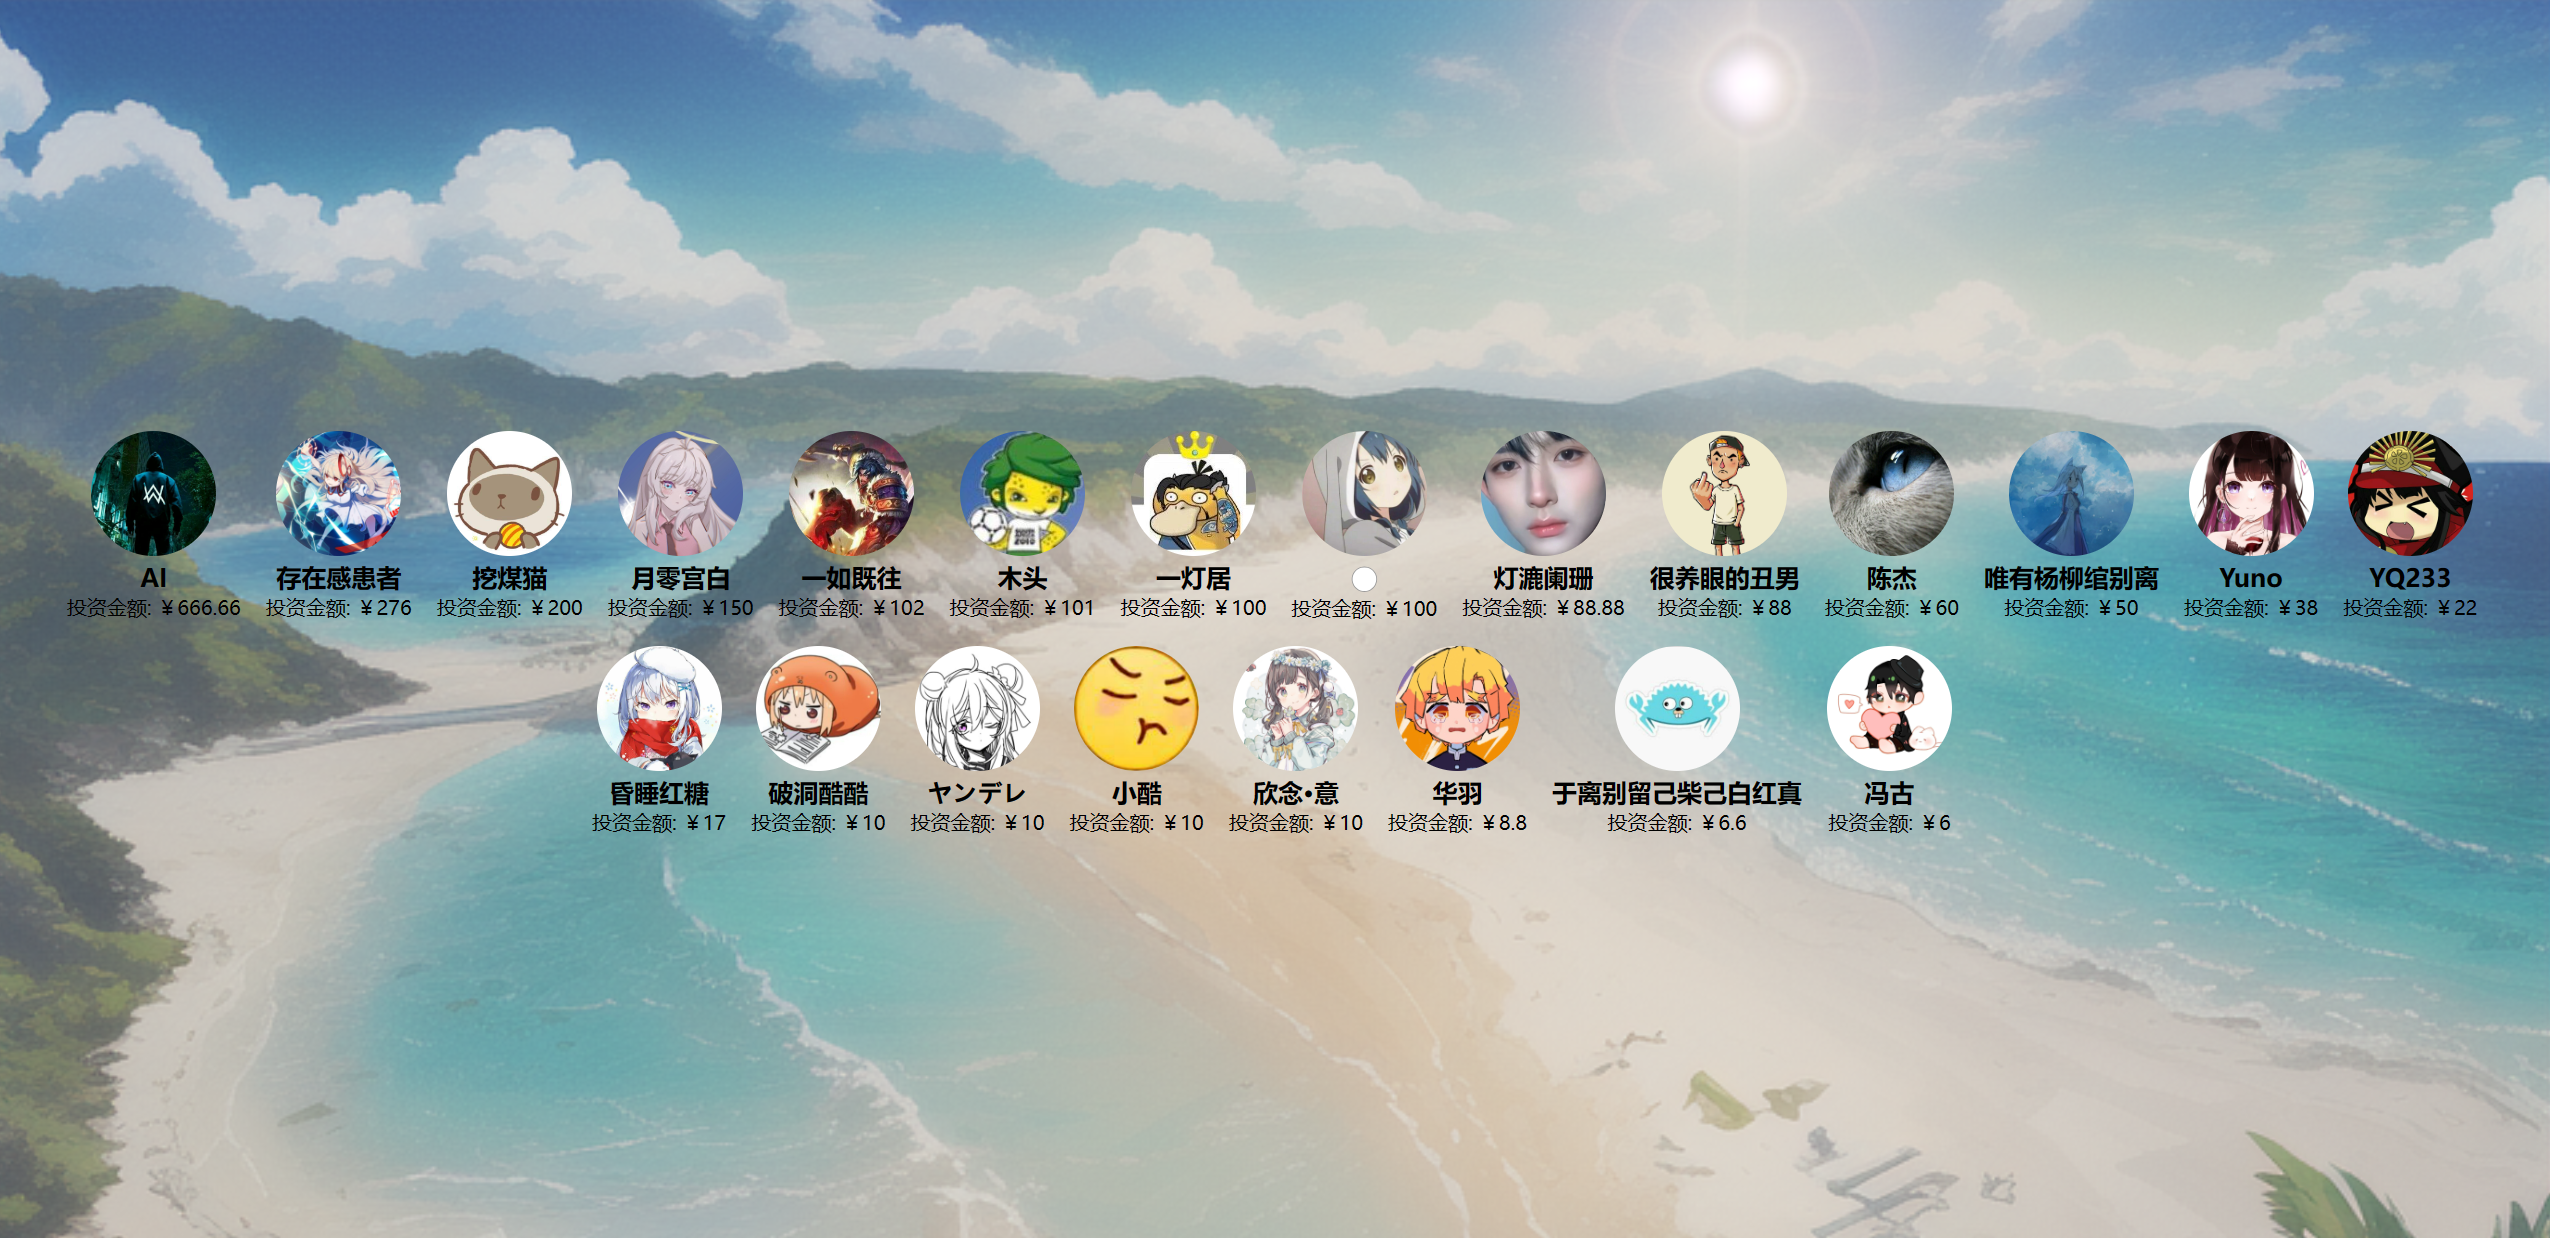
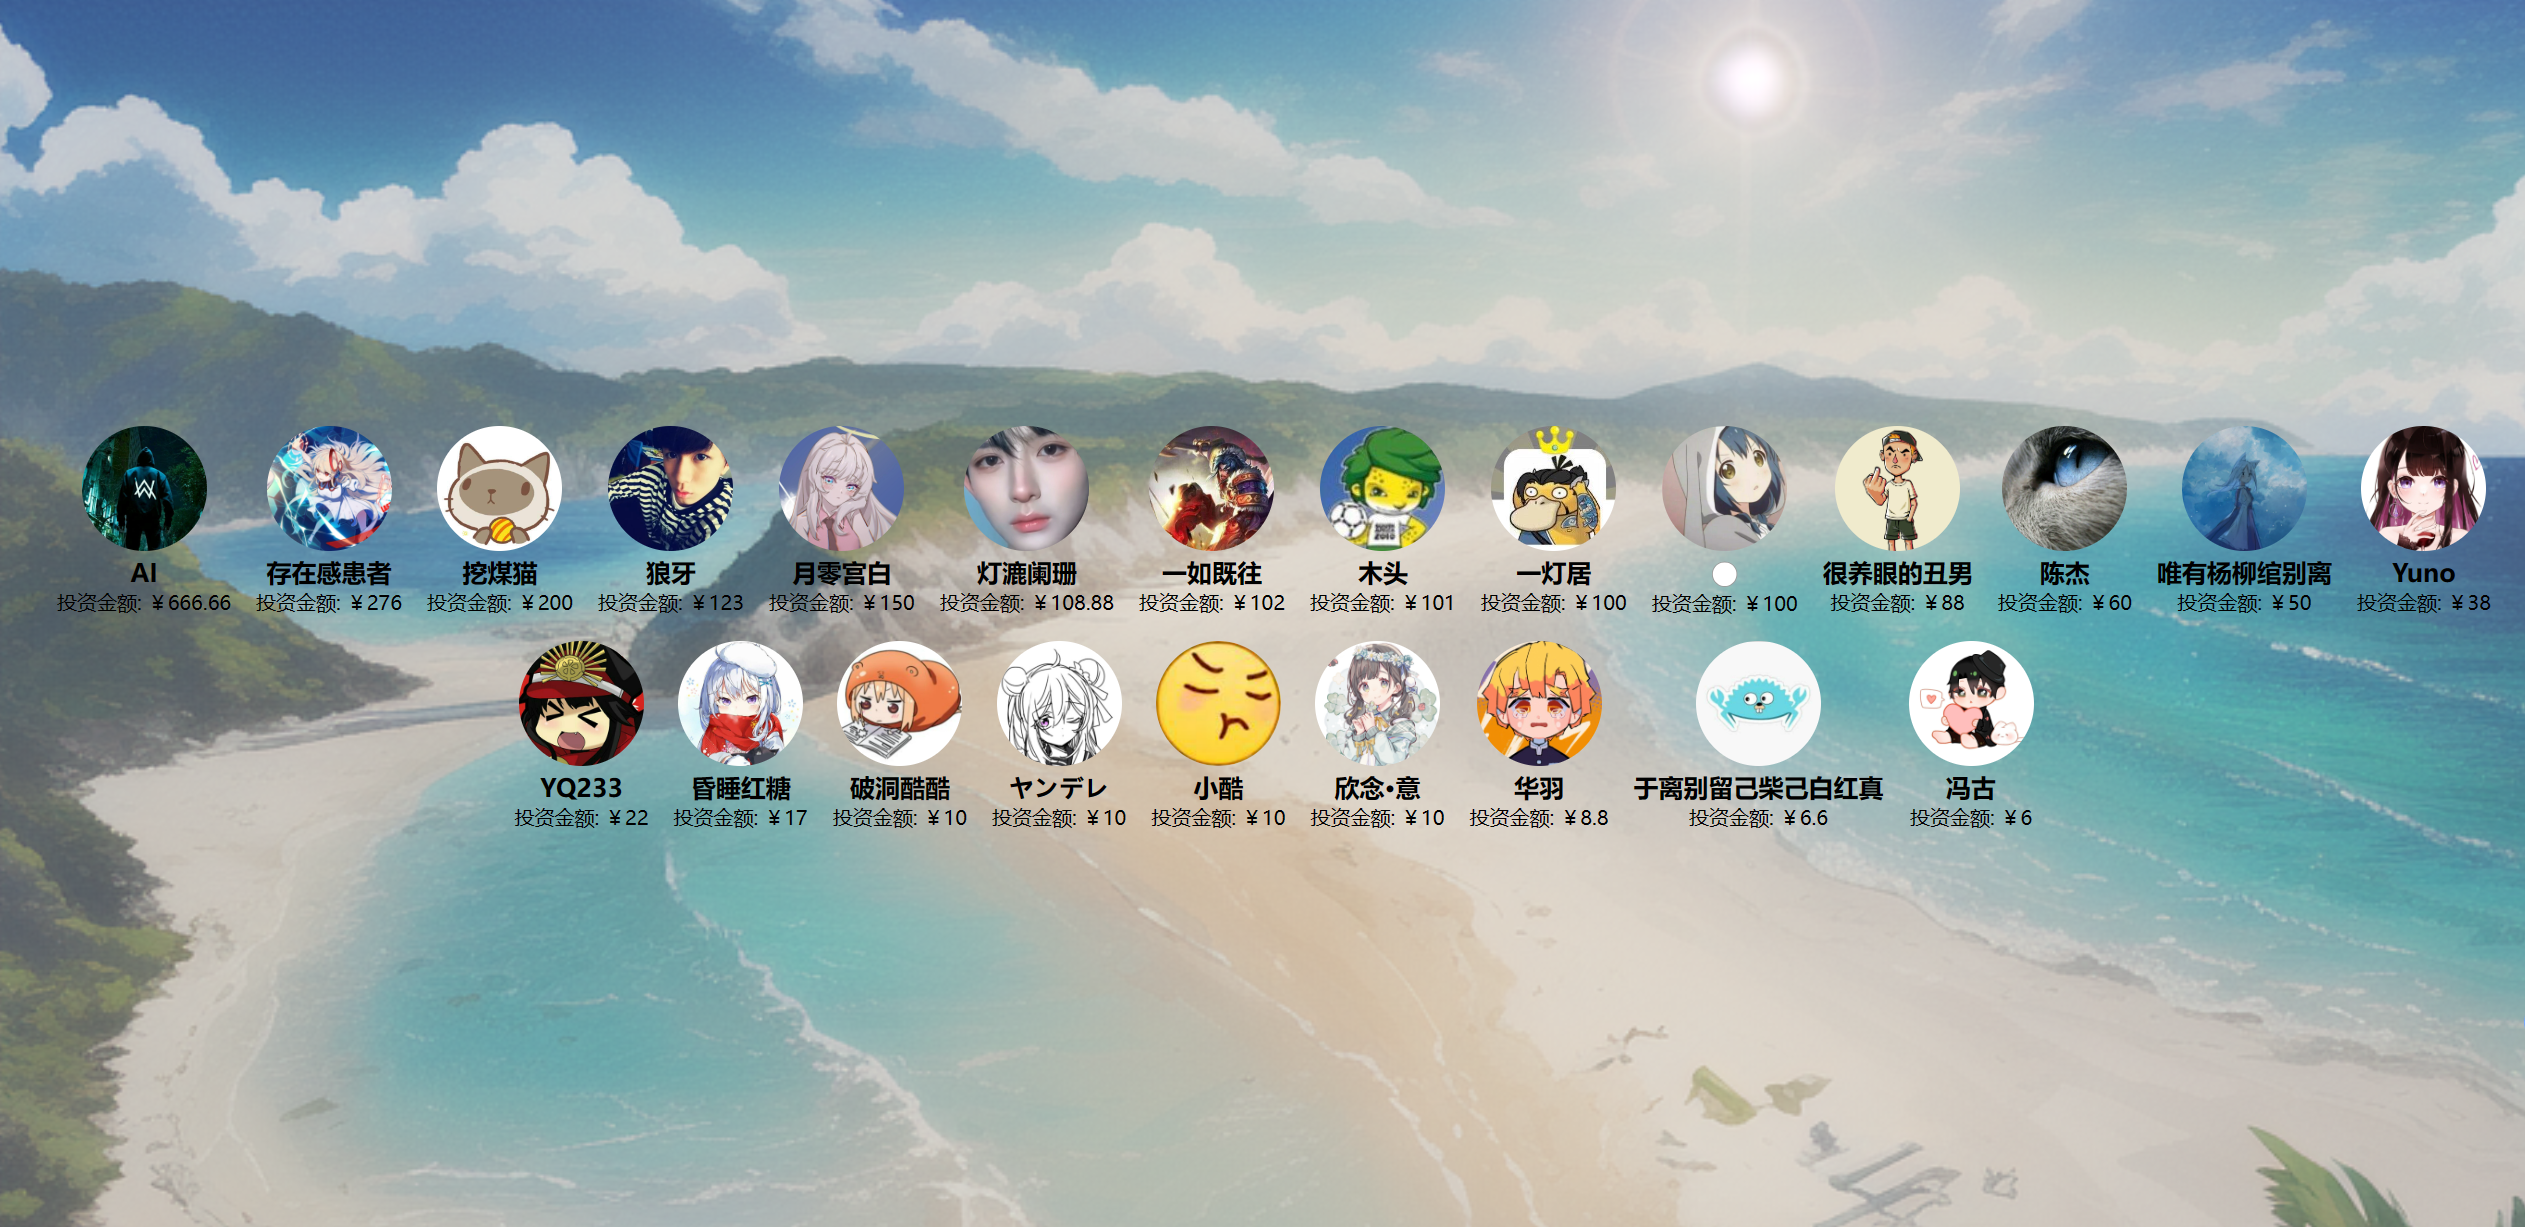
更新投资人信息

diff --git a/docs/投资人/index.html b/docs/投资人/index.html
@@ -67,9 +67,19 @@
             amount: "￥200"
         },
         {
+            name: "狼牙",
+            avatar: "https://images.cnblogs.com/cnblogs_com/ikaros-521/2328032/o_230727112104_QQ%E5%9B%BE%E7%89%8720230727192026.png",
+            amount: "￥123"
+        },
+        {
             name: "月零宫白",
             avatar: "https://images.cnblogs.com/cnblogs_com/ikaros-521/2328032/o_230719074437_%E6%9C%88%E9%9B%B6%E5%AE%AB%E7%99%BD.jpg",
             amount: "￥150"
+        },
+        {
+            name: "灯漉阑珊",
+            avatar: "https://images.cnblogs.com/cnblogs_com/ikaros-521/2328032/o_230722165246_QQ%E5%9B%BE%E7%89%8720230723005230.jpg",
+            amount: "￥108.88"
         },
         {
             name: "一如既往",
@@ -90,11 +100,6 @@
             name: "⚪",
             avatar: "https://images.cnblogs.com/cnblogs_com/ikaros-521/2328032/o_230723115608_QQ%E5%9B%BE%E7%89%8720230723195326.jpg",
             amount: "￥100"
-        },
-        {
-            name: "灯漉阑珊",
-            avatar: "https://images.cnblogs.com/cnblogs_com/ikaros-521/2328032/o_230722165246_QQ%E5%9B%BE%E7%89%8720230723005230.jpg",
-            amount: "￥88.88"
         },
         {
             name: "很养眼的丑男",
